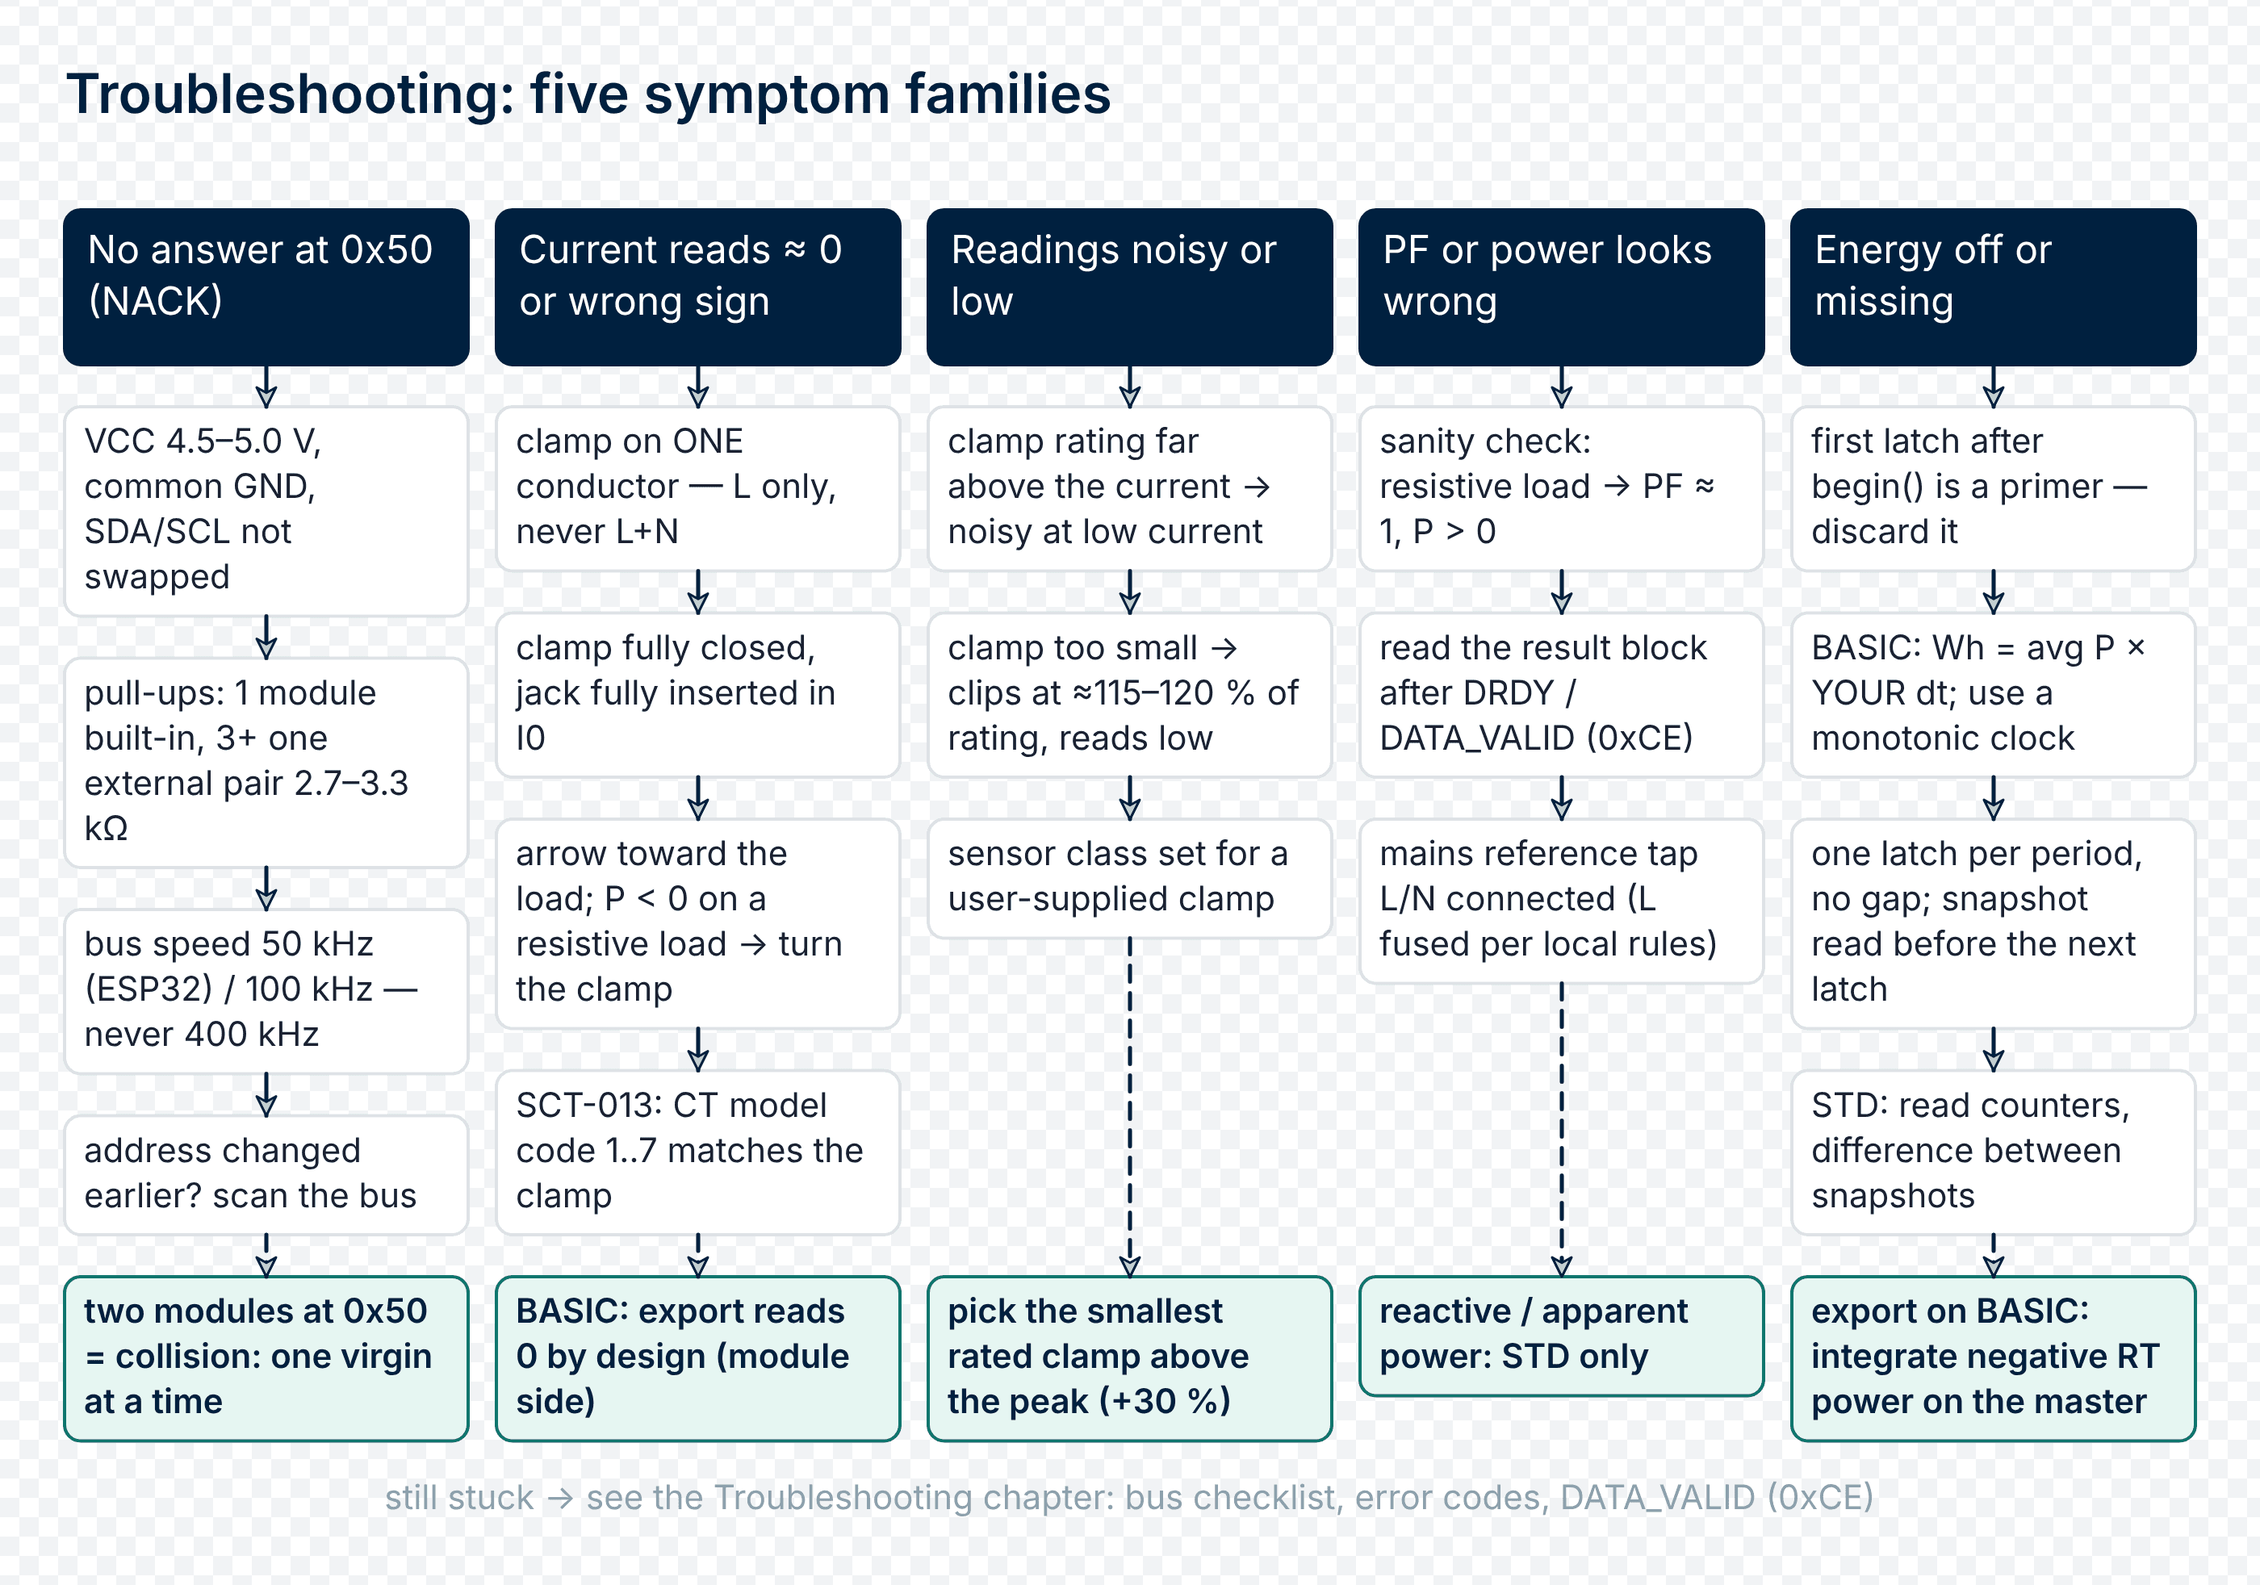
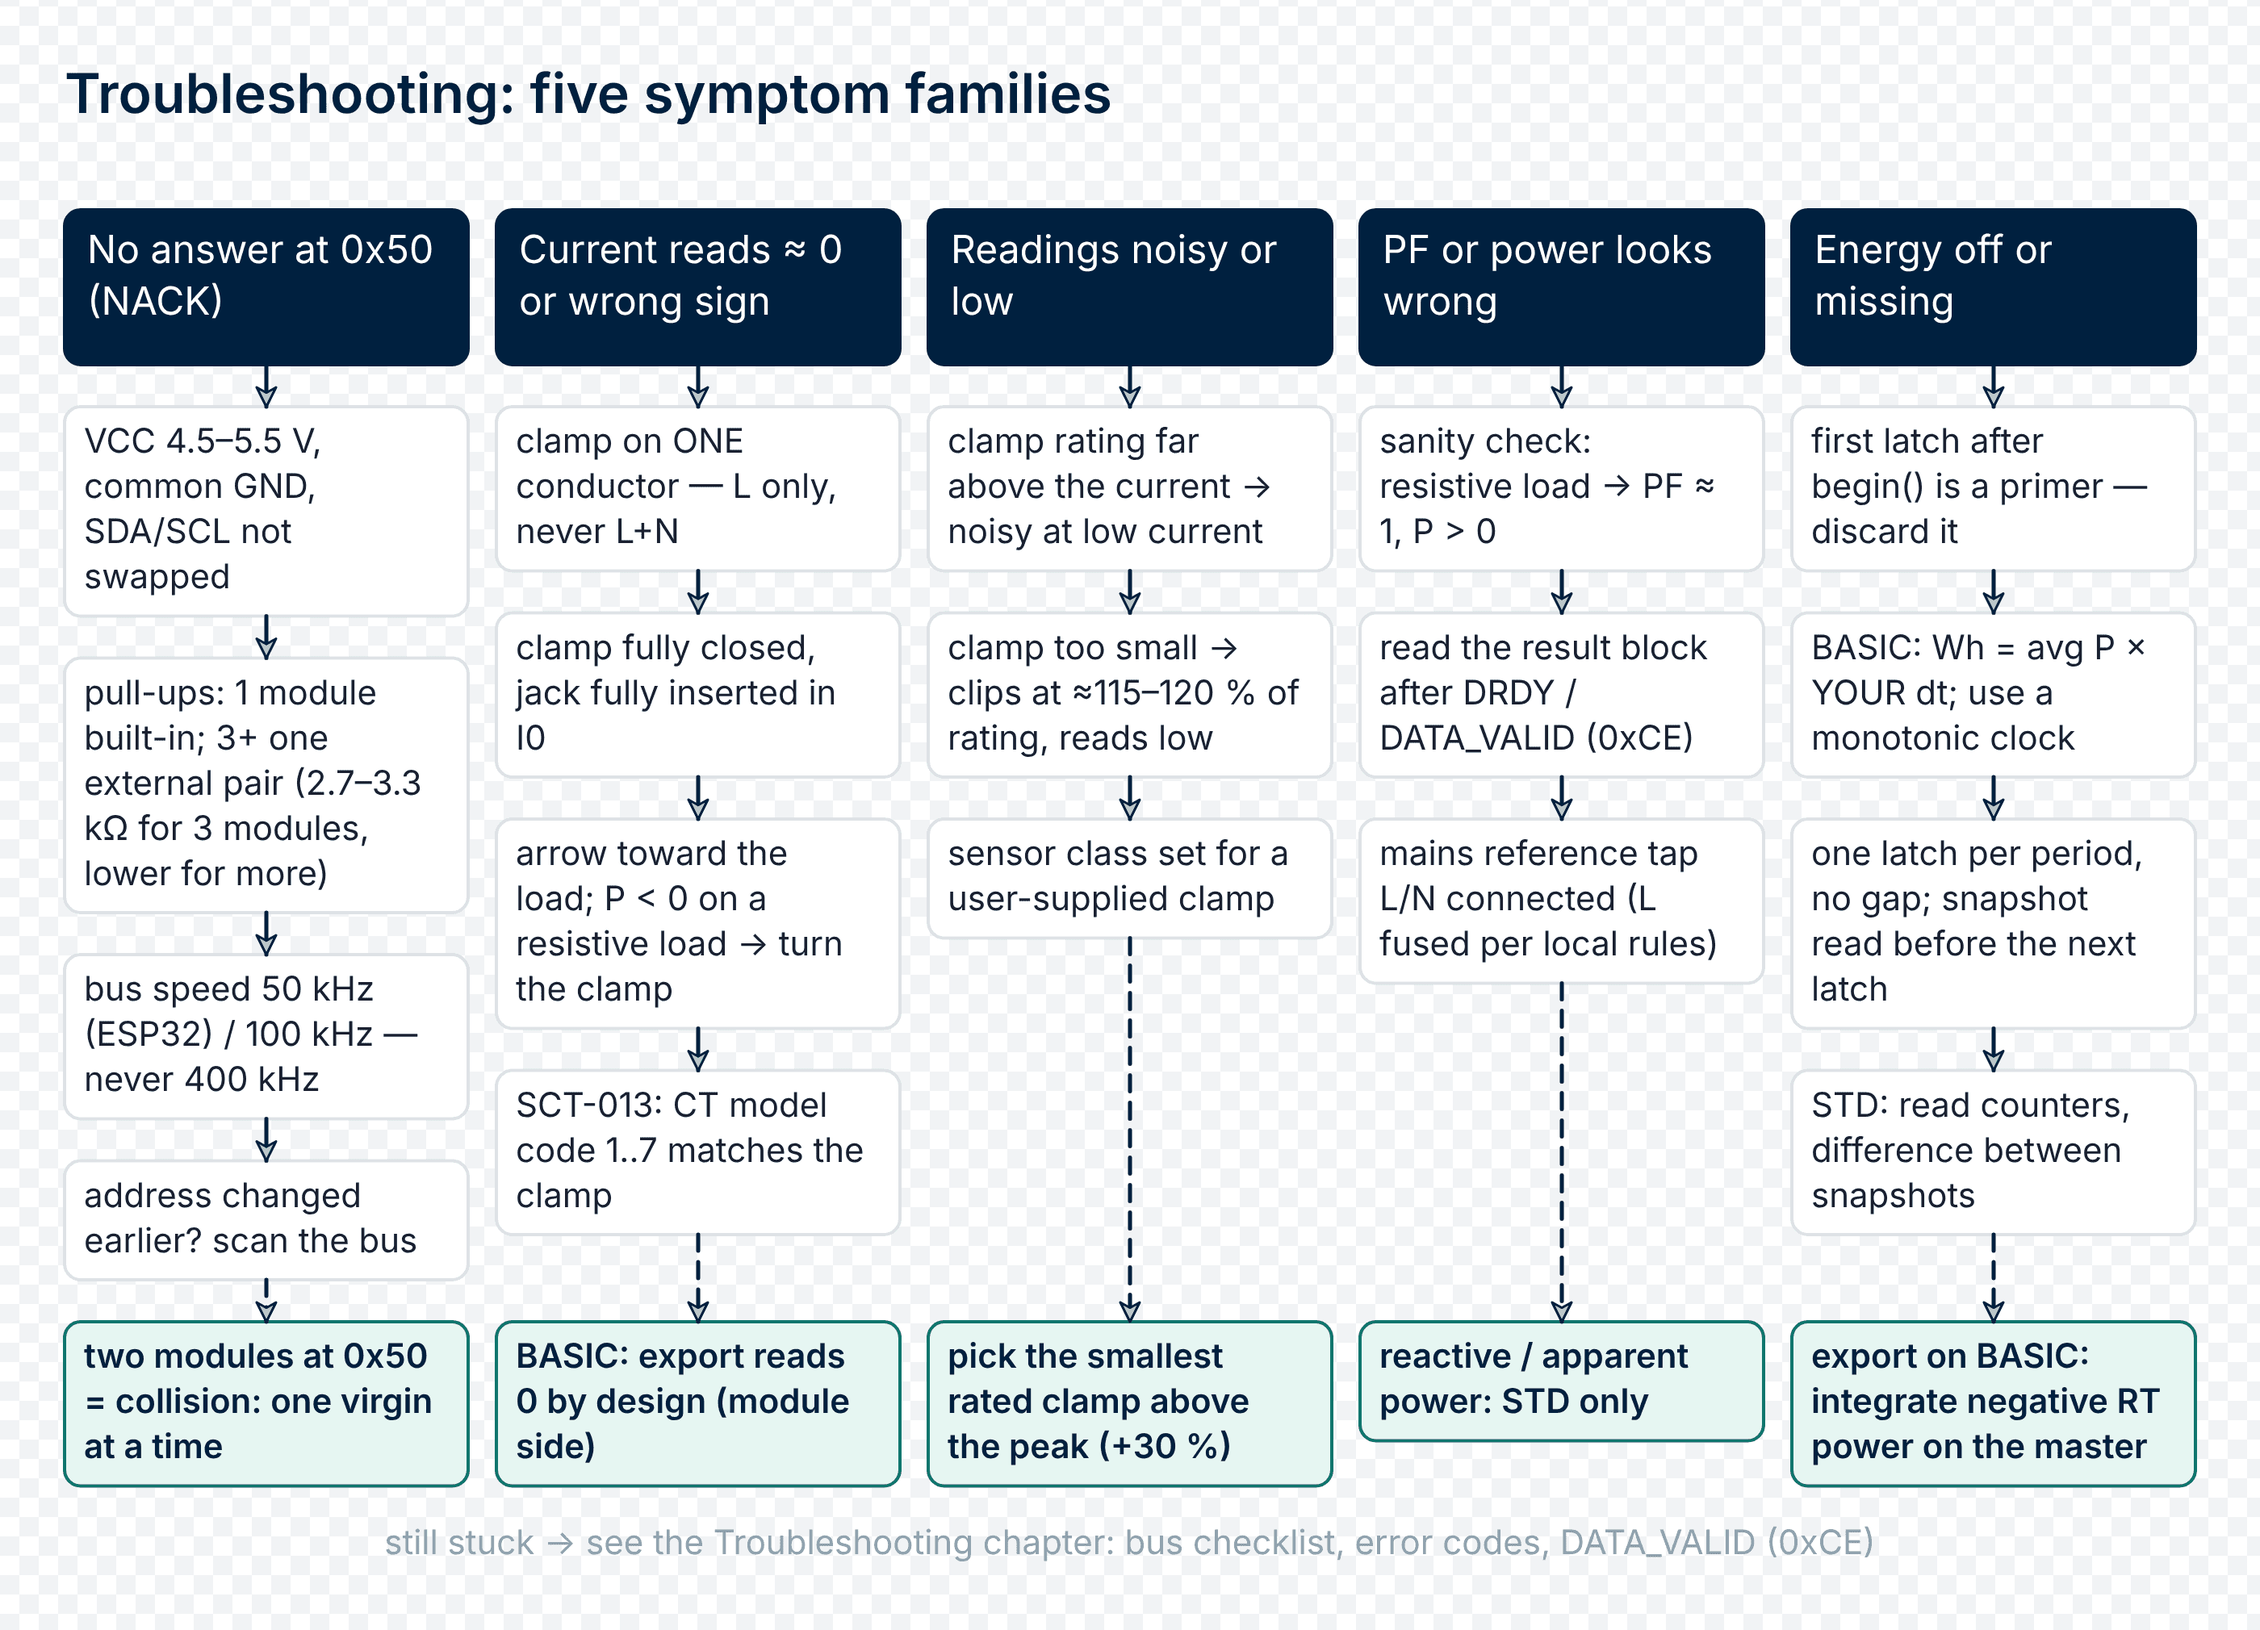
docs: corrected pictures (supply 4.5-5.5 V, pull-up values by module count)

diff --git a/rbamp/tests/test_std.py b/rbamp/tests/test_std.py
@@ -112,7 +112,7 @@ CAPS_FULL = (S.CAP_ADDR16 | S.CAP_MULTI_CHANNEL | S.CAP_REACTIVE | S.CAP_THD
              | S.CAP_ONDEVICE_ENERGY | S.CAP_ENERGY_UWH)
 
 
-def _u3i3(caps=CAPS_FULL, fw=0x0001007B, map_version=0x36):
+def _three_phase(caps=CAPS_FULL, fw=0x0001007B, map_version=0x36):
     m = StdMockBackend()
     m.set_identity(map_version, caps, 0x07, n_voltage=3, n_current=3,
                    variant=S.VARIANT_3PH_3CH)
@@ -188,7 +188,7 @@ def _dev(m):
 # ---------------------------------------------------------------------------
 
 def test_discovery_sets_std():
-    d = _dev(_u3i3())
+    d = _dev(_three_phase())
     assert d.is_std is True
     assert d.channels == 3
     assert d.has_voltage_hw is True
@@ -204,7 +204,7 @@ def test_basic_module_not_std():
 
 
 def test_std_magic_bad_version_raises():
-    m = _u3i3()
+    m = _three_phase()
     m.set_u8(S.REG_VERSION, 0x2F)  # below 0x30
     with pytest.raises(Exception):
         RbAmp(m, addr=0x50).begin()
@@ -215,7 +215,7 @@ def test_std_magic_bad_version_raises():
 # ---------------------------------------------------------------------------
 
 def test_common_readers():
-    d = _dev(_u3i3())
+    d = _dev(_three_phase())
     assert d.read_voltage(0) == pytest.approx(230.0)
     assert d.read_voltage(2) == pytest.approx(230.0)
     assert d.read_current(0) == pytest.approx(5.0)
@@ -226,13 +226,13 @@ def test_common_readers():
 
 
 def test_reactive_apparent():
-    d = _dev(_u3i3())
+    d = _dev(_three_phase())
     assert d.read_reactive(0) == pytest.approx(200.0)
     assert d.read_apparent(0) == pytest.approx(1150.0)
 
 
 def test_voltage_out_of_range():
-    d = _dev(_u3i3())
+    d = _dev(_three_phase())
     with pytest.raises(RbAmpParamError):
         d.read_voltage(3)
     with pytest.raises(RbAmpParamError):
@@ -244,7 +244,7 @@ def test_voltage_out_of_range():
 # ---------------------------------------------------------------------------
 
 def test_voltage_angle():
-    d = _dev(_u3i3())
+    d = _dev(_three_phase())
     deg0, valid0 = d.read_voltage_angle(0)
     assert valid0 is True and deg0 == pytest.approx(0.0)
     deg1, valid1 = d.read_voltage_angle(1)
@@ -253,13 +253,13 @@ def test_voltage_angle():
 
 def test_angle_none_and_old_fw():
     # ANGLE sentinel 0x8000 → not valid
-    m = _u3i3()
+    m = _three_phase()
     m.set_i16(S.VOLTAGE(1) + S.VOLTAGE_ANGLE, -0x8000)
     d = _dev(m)
     deg, valid = d.read_voltage_angle(1)
     assert valid is False and deg == 0.0
     # firmware < 0x7A → angle never valid, phase_seq NotSupported
-    d2 = _dev(_u3i3(fw=0x00010079))
+    d2 = _dev(_three_phase(fw=0x00010079))
     _deg, valid2 = d2.read_voltage_angle(1)
     assert valid2 is False
     with pytest.raises(RbAmpNotSupportedError):
@@ -267,7 +267,7 @@ def test_angle_none_and_old_fw():
 
 
 def test_phase_sequence():
-    d = _dev(_u3i3())
+    d = _dev(_three_phase())
     assert d.read_phase_sequence() == std.PHASE_SEQ_FORWARD
     assert std.phase_seq_name(d.read_phase_sequence()) == "forward"
 
@@ -277,7 +277,7 @@ def test_phase_sequence():
 # ---------------------------------------------------------------------------
 
 def test_energy_fine():
-    d = _dev(_u3i3())
+    d = _dev(_three_phase())
     e = d.read_std_energy()
     assert e.act_import_wh == 12345
     assert e.act_export_wh == 10
@@ -298,7 +298,7 @@ def test_energy_fine():
 def test_energy_coarse_when_no_uwh_cap():
     # CAP_ENERGY_UWH clear → fine False, µWh scaled from mWh (×1000)
     caps = CAPS_FULL & ~S.CAP_ENERGY_UWH
-    d = _dev(_u3i3(caps=caps))
+    d = _dev(_three_phase(caps=caps))
     e = d.read_std_energy()
     assert e.fine is False
     assert e.fine_reactive is False
@@ -309,7 +309,7 @@ def test_energy_coarse_when_no_uwh_cap():
 
 def test_energy_reactive_coarse_below_7b():
     # fw 0x7A: active µWh fine, reactive µvarh still coarse (varh × 1e6)
-    d = _dev(_u3i3(fw=0x0001007A))
+    d = _dev(_three_phase(fw=0x0001007A))
     e = d.read_std_energy()
     assert e.fine is True
     assert e.fine_reactive is False
@@ -318,13 +318,13 @@ def test_energy_reactive_coarse_below_7b():
 
 def test_energy_not_supported_without_cap():
     caps = CAPS_FULL & ~S.CAP_ONDEVICE_ENERGY
-    d = _dev(_u3i3(caps=caps))
+    d = _dev(_three_phase(caps=caps))
     with pytest.raises(RbAmpNotSupportedError):
         d.read_std_energy()
 
 
 def test_energy_delta_via_dev():
-    d = _dev(_u3i3())
+    d = _dev(_three_phase())
     e0 = d.read_std_energy()
     m = d.std._io
     m.set_i64(S.ENERGY_BASE + S.ENERGY_E_ACT_IMP, 12_445)   # +100 Wh
@@ -340,7 +340,7 @@ def test_energy_delta_via_dev():
 # ---------------------------------------------------------------------------
 
 def test_read_config():
-    d = _dev(_u3i3())
+    d = _dev(_three_phase())
     cfg = d.read_std_config()
     assert cfg.sensor_class == 1
     assert cfg.ct_model == 3
@@ -351,7 +351,7 @@ def test_read_config():
 
 
 def test_start_current_get_set():
-    d = _dev(_u3i3())
+    d = _dev(_three_phase())
     assert d.get_start_current() == 400
     d.set_start_current(250)
     assert d.get_start_current() == 250
@@ -360,7 +360,7 @@ def test_start_current_get_set():
 
 
 def test_start_current_invalid_no_write():
-    d = _dev(_u3i3())
+    d = _dev(_three_phase())
     m = d.std._io
     before = len(m.writes)
     with pytest.raises(RbAmpParamError):
@@ -371,7 +371,7 @@ def test_start_current_invalid_no_write():
 
 
 def test_start_current_unsupported_below_7b():
-    d = _dev(_u3i3(fw=0x0001007A))
+    d = _dev(_three_phase(fw=0x0001007A))
     with pytest.raises(RbAmpNotSupportedError):
         d.get_start_current()
     with pytest.raises(RbAmpNotSupportedError):
@@ -385,13 +385,13 @@ def test_start_current_unsupported_below_7b():
 # ---------------------------------------------------------------------------
 
 def test_set_time_ok():
-    d = _dev(_u3i3())
+    d = _dev(_three_phase())
     d.set_time(1_700_000_000)  # 2023
     assert d.std._io.mem.get(S.REG_STATUS, 0) & S.ST_TIME_VALID
 
 
 def test_set_time_rejects_pre_2020():
-    d = _dev(_u3i3())
+    d = _dev(_three_phase())
     with pytest.raises(RbAmpParamError):
         d.set_time(100)
 
@@ -401,7 +401,7 @@ def test_set_time_rejects_pre_2020():
 # ---------------------------------------------------------------------------
 
 def test_read_health():
-    d = _dev(_u3i3())
+    d = _dev(_three_phase())
     h = d.read_std_health()
     assert h.cal_ok is True
     assert h.sensor_ok is True
@@ -434,7 +434,7 @@ def test_std_only_methods_raise_on_basic():
 # ---------------------------------------------------------------------------
 
 def test_energy_block_reads_are_coherent():
-    d = _dev(_u3i3())
+    d = _dev(_three_phase())
     m = d.std._io
     m.reads.clear()
     d.read_std_energy()

diff --git a/docs/04_hardware.md b/docs/04_hardware.md
@@ -117,7 +117,7 @@ Cut them with a sharp blade:
 | 4…6 | Cut on all modules, one external 2.2…2.7 kΩ pair near the host |
 | 7…16 | Cut on all modules, one external 1.5…2.2 kΩ pair near the host; check the bus capacitance (≤ 400 pF), lower the bus speed if needed |
 
-The external values are recommended values (calculated from the I²C specification: sink current ≤ 3 mA at 3.3 V, bus capacitance ≤ 400 pF).
+The external values are recommended values (calculated from the I²C specification: sink current ≤ 3 mA at 3.3 V, bus capacitance ≤ 400 pF). Connect the external pull-ups to **3.3 V** (the logic level of the bus), not to the 5 V `VCC` supply.
 
 > **If in doubt**: measure the resistance between SDA and VCC with the
 > devices powered off. It should be in the **1.5..4.7 kΩ** range. Less
